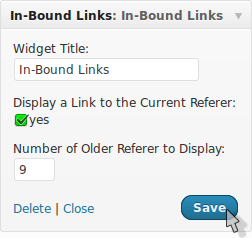
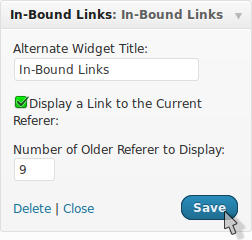
* Fixed the recheck link on the setting page, moved all the Stats to the Stats, and added a few different options for Menu Item placement.
git-svn-id: https://plugins.svn.wordpress.org/terribl/trunk@495108 b8457f37-d9ea-0310-8a92-e5e31aec5664

diff --git a/index.php b/index.php
@@ -7,9 +7,9 @@ Author URI: http://wordpress.ieonly.com/
 Contributors: scheeeli
 Donate link: https://www.paypal.com/cgi-bin/webscr?cmd=_s-xclick&hosted_button_id=8VWNB5QEJ55TJ
 Description: This plugin is not terrible it's TERRIBL. It simply Tracks Every Referer and Returns In-Bound Links. Place the Widget on your sidebar to display a link to the HTTP_REFERER and any other sites that you would like to trade links with.
-Version: 1.1.12.23
+Version: 1.1.12.24
 */
-$TERRIBL_Version='1.1.12.23';
+$TERRIBL_Version='1.1.12.24';
 $_SESSION['eli_debug_microtime']['include(TERRIBL)'] = microtime(true);
 $TERRIBL_plugin_dir='TERRIBL';
 /**
@@ -160,6 +160,7 @@ function TERRIBL_Settings() {
 	global $TERRIBL_SQL_SELECT, $TERRIBL_plugin_dir, $TERRIBL_images_path;
 $_SESSION['eli_debug_microtime']['TERRIBL_Settings_start'] = microtime(true);
 	$current_user = wp_get_current_user();
+	$TERRIBL_menu_groups = array('Main Menu Item placed below <b>Comments</b> and above <b>Appearance</b>','Main Menu Item placed below <b>Settings</b>','Sub-Menu inside the <b>Links</b> Menu Item');
 	TERRIBL_display_header('Settings');
 	$TERRIBL_settings_array = get_option($TERRIBL_plugin_dir.'_settings_array');
 	if (!isset($TERRIBL_settings_array['auto_root']))
@@ -173,12 +174,12 @@ $_SESSION['eli_debug_microtime']['TERRIBL_Settings_start'] = microtime(true);
 	if (isset($_POST['auto_root']) && $_POST['auto_root'] != $TERRIBL_settings_array['auto_root'])
 		$TERRIBL_settings_array['auto_root'] = $_POST['auto_root'];
 	update_option($TERRIBL_plugin_dir.'_settings_array', $TERRIBL_settings_array);
+	$menu_opts = '<b>Menu Item Placement Options:</b><br />';
+	foreach ($TERRIBL_menu_groups as $mg => $TERRIBL_menu_group)
+		$menu_opts .= '<div style="float: left; padding: 4px;" id="menu_group_div_'.$mg.'"><input type="radio" name="TERRIBL_menu_group" value="'.$mg.'"'.($TERRIBL_settings_array['menu_group']==$mg?' checked':'').' onchange="document.TERRIBL_Form.submit();" />'.$TERRIBL_menu_group.'</div>';
+	$menu_opts .= '<br style="clear: left;" /><hr /><br />';
 	$Impression_URL = $TERRIBL_images_path.'index.php?Impression_URI=/'.$TERRIBL_settings_array['auto_root'];
-	$MySQL = "SELECT SUM(`StatVisits`) AS `In-Bound<br />Clicks`, SUM(`StatImpressions`) AS `In-Bound<br />Impressions`, CONCAT('<a href=\"javascript:showhideRefDiv(\'', `StatRequestURI`, '\');\">', `StatRequestURI`, '</a><div class=\"shadowed-box rounded-corners popup-box\" id=\"RefDiv_', `StatRequestURI`, '\"><li>', GROUP_CONCAT(DISTINCT CONCAT(StatVisits, ' ', StatModified, ' ', StatDomain) ORDER BY StatVisits DESC SEPARATOR '<li>'), '</div>') AS `In-Bound<br />URI` FROM wp_terribl_stats WHERE StatMonth = '".$_POST['MonthOf']."' GROUP BY StatRequestURI ORDER BY `In-Bound<br />Clicks` DESC, `In-Bound<br />Impressions` DESC LIMIT 10";
-	echo '<b>Copy the HTML in this box and give it to others who wish to link to your site</b><br /><textarea width="100%" style="width: 100%;" rows="3" class="shadowed-box"><a target="_blank" href="http://'.$_SESSION[$TERRIBL_plugin_dir.'HTTP_HOST'].'/'.$TERRIBL_settings_array['auto_root'].'"><img border=0 src="'.$Impression_URL.'" /></a></textarea><br /><br /><form method="POST" name="TERRIBL_Form"><div style="float: left; width: 50%;"><div class="shadowed-box rounded-corners" style="background-color: #FFFFCC;"><h3 style="align: center;">Settings Form</h3>Default Path to Send In-Bound Visiters to (for Site Root leave blank):<br />http://'.$_SESSION[$TERRIBL_plugin_dir.'HTTP_HOST'].'/<input type="text" name="auto_root" value="'.$TERRIBL_settings_array['auto_root'].'" /> <input type="submit" value="Update" class="button-primary" /><br /><br />Automatically Validate In-Bound Referers and list in the sidebar Widget?<br /><input type="radio" name="auto_return" value="yes"'.($TERRIBL_settings_array['auto_return']=="yes"?" checked":"").' onchange="document.TERRIBL_Form.submit();" />yes &nbsp; <input type="radio" name="auto_return" value="no"'.($TERRIBL_settings_array['auto_return']=="yes"?"":" checked").' onchange="document.TERRIBL_Form.submit();" />no<input type="hidden" name="MonthOf" value="'.$_POST['MonthOf'].'" /><br /><br />Kick off your In-Bound Widget by manually adding a site here:<br />http://<input type="text" name="manual_add" id="manual_add" value="wordpress.ieonly.com" /><input type="hidden" id="auto_what" name="auto_what" value="" /><input type="submit" value="Add Site Link to Widget" class="button-primary" onclick="document.getElementById(\'auto_what\').value=\'add\';" /></div><br />
-<h2 style="float: right;">In-Bound Link Stats</h2>
-</div><div style="float: left; width: 50%; margin: 0;">'.TERRIBL_mysql_report($MySQL, 'Top 10 In-Bound URIs').'</div>
-	<div style="float: left;">
+	echo '<b>Copy the HTML in this box and give it to others who wish to link to your site</b><br /><textarea width="100%" style="width: 100%;" rows="3" class="shadowed-box"><a target="_blank" href="http://'.$_SESSION[$TERRIBL_plugin_dir.'HTTP_HOST'].'/'.$TERRIBL_settings_array['auto_root'].'"><img border=0 src="'.$Impression_URL.'" /></a></textarea><br /><br /><form method="POST" name="TERRIBL_Form"><div class="shadowed-box rounded-corners" style="background-color: #FFFFCC;"><h2 style="align: center;">Settings Form</h2>'.$menu_opts.'<b>Default Path to Send In-Bound Visiters to</b> (for Site Root leave blank):<br />http://'.$_SESSION[$TERRIBL_plugin_dir.'HTTP_HOST'].'/<input type="text" name="auto_root" value="'.$TERRIBL_settings_array['auto_root'].'" /> <input type="submit" value="Update" class="button-primary" /><br /><br /><b>Automatically Validate In-Bound Referers and list in the sidebar Widget?</b><br /><input type="radio" name="auto_return" value="yes"'.($TERRIBL_settings_array['auto_return']=="yes"?" checked":"").' onchange="document.TERRIBL_Form.submit();" />yes &nbsp; <input type="radio" name="auto_return" value="no"'.($TERRIBL_settings_array['auto_return']=="yes"?"":" checked").' onchange="document.TERRIBL_Form.submit();" />no<input type="hidden" name="MonthOf" value="'.$_POST['MonthOf'].'" /><br /><br /><b>Kick off your In-Bound Widget by manually adding a site here:</b><br />http://<input type="text" name="manual_add" id="manual_add" value="wordpress.ieonly.com" /><input type="hidden" id="auto_what" name="auto_what" value="" /><input type="submit" value="Add Site Link to Widget" class="button-primary" onclick="document.getElementById(\'auto_what\').value=\'add\';" /></div>
 	<script>
 	function showhideRefDiv(domain) {
 		refdiv = document.getElementById(\'RefDiv_\'+domain);
@@ -190,14 +191,13 @@ $_SESSION['eli_debug_microtime']['TERRIBL_Settings_start'] = microtime(true);
 			}
 		}
 	}
-	function recheckDomain(domain, referer) {
+	function recheckDomain(domain) {
 		document.getElementById(\'img_\'+domain).src=\''.$TERRIBL_images_path.'wait.gif\';
 		var newimg = new Image();
 		newimg.onload = function() {document.getElementById(\'img_\'+domain).src=newimg.src;};
-		newimg.src=\''.$TERRIBL_images_path.'index.php?Impression_URI&Return_URL=\'+referer;
+		newimg.src=\''.$TERRIBL_images_path.'index.php?Impression_URI&Return_URL=\'+domain;
 	}
-	</script>
-	<table border=0 cellspacing=0><tr><td>';
+	</script>';
 	if (isset($_POST['manual_add']) && strlen(trim($_POST['manual_add'])) > 0 && isset($_POST['auto_what']) && strlen($_POST['auto_what']) > 0) {
 		$DomainName = mysql_real_escape_string(trim($_POST['manual_add']));
 		if ($_POST['auto_what']=='add') {
@@ -210,19 +210,14 @@ $_SESSION['eli_debug_microtime']['TERRIBL_Settings_start'] = microtime(true);
 		elseif ($_POST['auto_what']=='hide')
 			@mysql_query("UPDATE `wp_terribl_stats` SET `StatReturn`=0 WHERE StatDomain='$DomainName'");
 	}
-	$MySQL = "SELECT MONTHNAME(StatMonth) AS MonthOf, StatMonth FROM `wp_terribl_stats` GROUP BY StatMonth ORDER BY StatMonth DESC LIMIT 12";
-	$result = mysql_query($MySQL);
-	while ($rs = mysql_fetch_assoc($result))
-		echo '<input type="submit" value="'.$rs['MonthOf'].'" onclick="document.TERRIBL_Form.MonthOf.value=\''.$rs['StatMonth'].'\';" style="'.($_POST['MonthOf']==$rs['StatMonth']?'background-color: #33FF33; ':'').'float: right;" />';
-	echo '</td></tr></table></div><div style="float: left;">';
-	$MySQL = str_replace("`StatDomain` AS `Referring<br />Site`", "CONCAT('<img border=0 src=\"".$TERRIBL_images_path."', IF(MAX(`StatReturn`)>0, 'checked.gif\" alt=\"Link Verified\"', 'blocked.gif\" alt=\"Link Not Found'), '\" id=\"img_',StatDomain,'\" /><a href=\"javascript:recheckDomain(\'',StatDomain,'\', \'',MAX(StatReferer),'\');\">Recheck</a>') AS `Link<br />Verified`, IF(StatDomain IN (SELECT `BlockDomain` FROM `wp_terribl_blocked`), 'Site Blocked!', CONCAT('<input type=\"submit\" value=\"Block This Site!\" onclick=\"document.getElementById(\'auto_what\').value=\'block\';document.getElementById(\'manual_add\').value=\'',StatDomain,'\';\" />')) AS `Widget<br />Action`, CONCAT('<a href=\"javascript:showhideRefDiv(\'', `StatDomain`, '\');\">', `StatDomain`, '</a><div class=\"shadowed-box rounded-corners popup-box\" id=\"RefDiv_', `StatDomain`, '\"><table><tr><td><li>', GROUP_CONCAT(DISTINCT CONCAT(IFNULL(StatReturn, '0'), '</td><td>', StatModified, '</td><td>', StatReferer, '</td><td>', StatRequestURI) ORDER BY StatModified DESC SEPARATOR '</td></tr><tr><td><li>'), '</td></tr></table></div>') AS `Referring<br />Site`", str_replace("FROM wp_terribl_stats GROUP", "FROM wp_terribl_stats WHERE StatMonth = '".$_POST['MonthOf']."' GROUP",$TERRIBL_SQL_SELECT));
-	echo TERRIBL_mysql_report($MySQL).'</div></form></div></div>';
+	$MySQL = str_replace("`StatDomain` AS `Referring<br />Site`", "CONCAT('<img border=0 src=\"".$TERRIBL_images_path."', IF(MAX(`StatReturn`)>0, 'checked.gif\" alt=\"Link Verified\"', 'blocked.gif\" alt=\"Link Not Found'), '\" id=\"img_',StatDomain,'\" /><a href=\"javascript:recheckDomain(\'',StatDomain,'\');\">Recheck</a>') AS `Link<br />Verified`, IF(StatDomain IN (SELECT `BlockDomain` FROM `wp_terribl_blocked`), 'Site Blocked!', CONCAT('<input type=\"submit\" value=\"Block Site!\" onclick=\"document.getElementById(\'auto_what\').value=\'block\';document.getElementById(\'manual_add\').value=\'',StatDomain,'\';\" />')) AS `Widget<br />Action`, CONCAT('<a href=\"javascript:showhideRefDiv(\'', `StatDomain`, '\');\">', `StatDomain`, '</a><div class=\"shadowed-box rounded-corners popup-box\" id=\"RefDiv_', `StatDomain`, '\"><table><tr><td>', GROUP_CONCAT(DISTINCT CONCAT(IFNULL(StatReturn, '0'), '</td><td>', StatModified, '</td><td>', StatReferer, '</td><td>', StatRequestURI) ORDER BY StatModified DESC SEPARATOR '</td></tr><tr><td>'), '</td></tr></table></div>') AS `Referring<br />Site`",$TERRIBL_SQL_SELECT);// str_replace("FROM wp_terribl_stats GROUP", "FROM wp_terribl_stats WHERE StatMonth = '".$_POST['MonthOf']."' GROUP",
+	echo TERRIBL_mysql_report($MySQL, 'In-Bound Links').'</form></div></div>';
 $_SESSION['eli_debug_microtime']['TERRIBL_Settings_end'] = microtime(true);
 //TERRIBL_debug();//only used for debugging.//rem this line out
 }
-function TERRIBL_more_stats() {
-$_SESSION['eli_debug_microtime']['TERRIBL_more_stats_start'] = microtime(true);
-	TERRIBL_display_header('More Stats');
+function TERRIBL_stats() {
+$_SESSION['eli_debug_microtime']['TERRIBL_stats_start'] = microtime(true);
+	TERRIBL_display_header('Stats');
 	if (!isset($_POST['MonthOf']))
 		$_POST['MonthOf'] = date("Y-m")."-01";
 	if (isset($_POST['RemoteAddr']) && strlen(trim($_POST['RemoteAddr'])))
@@ -239,6 +234,8 @@ $_SESSION['eli_debug_microtime']['TERRIBL_more_stats_start'] = microtime(true);
 	while ($rs = mysql_fetch_assoc($result))
 		echo '<input type="submit" value="'.$rs['MonthOf'].'" onclick="document.TERRIBL_Form.MonthOf.value=\''.$rs['StatMonth'].'\';" style="'.($_POST['MonthOf']==$rs['StatMonth']?'background-color: #33FF33; ':'').'float: right;" />';
 	echo '</td></tr></table></div></form>';
+	$SQL = "SELECT SUM(`StatVisits`) AS `In-Bound<br />Clicks`, SUM(`StatImpressions`) AS `In-Bound<br />Impressions`, CONCAT('<a href=\"javascript:showhideRefDiv(\'', `StatRequestURI`, '\');\">', `StatRequestURI`, '</a><div class=\"shadowed-box rounded-corners popup-box\" id=\"RefDiv_', `StatRequestURI`, '\"><li>', GROUP_CONCAT(DISTINCT CONCAT(StatVisits, ' ', StatModified, ' ', StatDomain) ORDER BY StatVisits DESC SEPARATOR '<li>'), '</div>') AS `In-Bound<br />URI` FROM wp_terribl_stats WHERE StatMonth = '".$_POST['MonthOf']."' GROUP BY StatRequestURI ORDER BY `In-Bound<br />Clicks` DESC, `In-Bound<br />Impressions` DESC LIMIT 10";
+	echo '<div style="float: left;">'.TERRIBL_mysql_report($SQL, 'Top 10 In-Bound Link Destinations').'</div>';
 	$VisiterColor = '#FF9999';
 	$VisitColor = '#9999FF';
 	$AllVisiters = "(SELECT COUNT(StatVisits) FROM wp_terribl_stats $WHERE ORDER BY COUNT(StatVisits) DESC LIMIT 1)";
@@ -250,7 +247,7 @@ $_SESSION['eli_debug_microtime']['TERRIBL_more_stats_start'] = microtime(true);
 		$ANDNOT .= " AND StatUserAgent NOT LIKE '%$OS%'";
 	}
 	$SQL .= "Other";
-	echo '<div style="float: left;"><b>Operating System</b><br />'.TERRIBL_mysql_report($SQL).'</div>';
+	echo '<div style="float: left;">'.TERRIBL_mysql_report($SQL,'Operating System').'</div>';
 	$SQL = "SELECT CONCAT('<div style=\"position: relative; width: 100%; height: 100px; background-color: #000000;\"><font color=\"$VisiterColor\"><b>', $AllVisiters, '<br />Visiters</b></font><br /><br /><font color=\"$VisitColor\"><b>', $AllVisits, '<br />Visits<b></font></div>') AS Browser";
 	$ANDNOT = "";
 	foreach (Array('MSIE', 'Firefox', 'Chrome', 'Safari', 'Opera', '') as $OS) {
@@ -258,14 +255,18 @@ $_SESSION['eli_debug_microtime']['TERRIBL_more_stats_start'] = microtime(true);
 		$ANDNOT .= " AND StatUserAgent NOT LIKE '%$OS%'";
 	}
 	$SQL .= "Other";
- 	echo '<div style="float: left;"><b>Browsers</b><br />'.TERRIBL_mysql_report($SQL).'</div>';
- 	echo '<div style="float: left;"><b>Top 10 Other Browsers</b><br />'.TERRIBL_mysql_report("SELECT COUNT(StatVisits) AS Visiters, SUM(StatVisits) AS Visits, StatUserAgent AS Browser, CONCAT('&nbsp;', GROUP_CONCAT(DISTINCT StatRemoteAddr), '&nbsp;') AS IPs FROM wp_terribl_stats ".$WHERE.str_replace(" AND StatUserAgent NOT LIKE '%%'", "", $ANDNOT)." GROUP BY StatUserAgent ORDER BY COUNT(StatVisits) DESC LIMIT 10").'</div></div></div>';
-$_SESSION['eli_debug_microtime']['TERRIBL_more_stats_end'] = microtime(true);
+ 	echo '<div style="float: left;">'.TERRIBL_mysql_report($SQL,'Browsers').'</div>';
+ 	echo '<div style="float: left;">'.TERRIBL_mysql_report("SELECT COUNT(StatVisits) AS Visiters, SUM(StatVisits) AS Visits, StatUserAgent AS Browser, CONCAT('&nbsp;', GROUP_CONCAT(DISTINCT StatRemoteAddr SEPARATOR ', '), '&nbsp;') AS IPs FROM wp_terribl_stats ".$WHERE.str_replace(" AND StatUserAgent NOT LIKE '%%'", "", $ANDNOT)." GROUP BY StatUserAgent ORDER BY COUNT(StatVisits) DESC LIMIT 10", 'Top 10 Other Browsers').'</div></div></div>';
+$_SESSION['eli_debug_microtime']['TERRIBL_stats_end'] = microtime(true);
 }
 function TERRIBL_menu() {
 	global $TERRIBL_plugin_dir, $TERRIBL_Version, $wp_version, $TERRIBL_plugin_home, $TERRIBL_Logo_IMG, $TERRIBL_updated_images_path, $TERRIBL_images_path;
 $_SESSION['eli_debug_microtime']['TERRIBL_menu_start'] = microtime(true);
 	$TERRIBL_settings_array = get_option($TERRIBL_plugin_dir.'_settings_array');
+	if (isset($_POST['TERRIBL_menu_group']) && is_numeric($_POST['TERRIBL_menu_group']) && $_POST['TERRIBL_menu_group'] != $TERRIBL_settings_array['menu_group']) {
+		$TERRIBL_settings_array['menu_group'] = $_POST['TERRIBL_menu_group'];
+		update_option($TERRIBL_plugin_dir.'_settings_array', $TERRIBL_settings_array);
+	}
 	$Logo_URL = $TERRIBL_images_path.$TERRIBL_Logo_IMG;
 	$img_path = basename(__FILE__);
 	$Logo_Path = 'images/'.$TERRIBL_Logo_IMG;
@@ -274,12 +275,14 @@ $_SESSION['eli_debug_microtime']['TERRIBL_menu_start'] = microtime(true);
 	urlencode($Full_plugin_logo_URL);
 	$Logo_URL = $Full_plugin_logo_URL;
 	$base_page = $TERRIBL_plugin_dir.'-settings';
-	if (function_exists('add_object_page'))
-		add_object_page(__('ELI\'s TERRIBL Settings'), __('TERRIBL'), 'administrator', $base_page, $TERRIBL_plugin_dir.'_settings', $Logo_URL);
-	else
+	if ($TERRIBL_settings_array['menu_group'] == 2)
+		$base_page = 'link-manager.php';
+	elseif (!function_exists('add_object_page') || $TERRIBL_settings_array['menu_group'] == 1)
 		add_menu_page(__('ELI\'s TERRIBL Settings'), __('TERRIBL'), 'administrator', $base_page, $TERRIBL_plugin_dir.'_settings', $Logo_URL);
-	add_submenu_page($base_page, __('ELI\'s TERRIBL Settings Page'), __('Settings &amp; Stats'), 'administrator', $base_page, $TERRIBL_plugin_dir.'_settings');
-	add_submenu_page($base_page, __('ELI\'s TERRIBL - More Stats Page'), __('More Stats'), 'administrator', $TERRIBL_plugin_dir.'-more-stats', $TERRIBL_plugin_dir.'_more_stats');
+	else
+		add_object_page(__('ELI\'s TERRIBL Settings'), __('TERRIBL'), 'administrator', $base_page, $TERRIBL_plugin_dir.'_settings', $Logo_URL);
+	add_submenu_page($base_page, __('ELI\'s TERRIBL Settings Page'), __('TERRIBL Settings'), 'administrator', $TERRIBL_plugin_dir.'-settings', $TERRIBL_plugin_dir.'_settings');
+	add_submenu_page($base_page, __('ELI\'s TERRIBL Stats Page'), __('TERRIBL Stats'), 'administrator', $TERRIBL_plugin_dir.'-stats', $TERRIBL_plugin_dir.'_stats');
 $_SESSION['eli_debug_microtime']['TERRIBL_menu_end'] = microtime(true);
 }
 function TERRIBL_debug($my_error = '', $echo_error = false) {
@@ -306,7 +309,7 @@ function TERRIBL_debug($my_error = '', $echo_error = false) {
 	return $my_error;
 }
 function TERRIBL_init() {
-	global $TERRIBL_plugin_dir, $Visits_Impressions, $TERRIBL_REFERER_Parts;
+	global $TERRIBL_plugin_dir, $Visits_Impressions, $TERRIBL_REFERER_Parts, $img_src, $img_t;
 	$YourTZ=get_option('timezone_string').'';
 	if (function_exists('date_default_timezone_set') && strlen($YourTZ) > 0)
 		date_default_timezone_set($YourTZ);
@@ -327,24 +330,86 @@ $_SESSION['eli_debug_microtime']['TERRIBL_init_start'] = microtime(true);
 		$now = date("Y-m-d H:i:s");
 		$StatUserAgent = mysql_real_escape_string(isset($_SERVER['HTTP_USER_AGENT'])?$_SERVER['HTTP_USER_AGENT']:'Unknown USER_AGENT');
 		$StatRemoteAddr = (isset($_SERVER['REMOTE_ADDR'])?$_SERVER['REMOTE_ADDR']:'.Unknown.ADDR.');
-		
 		if ($TERRIBL_REFERER_Parts[2] != $_SESSION[$TERRIBL_plugin_dir.'HTTP_HOST']) {
-			if (($Visits_Impressions == 'StatReturn'))
-				$_SESSION[$TERRIBL_plugin_dir.'HTTP_REFERER'] = (isset($_GET['Return_URL'])?$_GET['Return_URL']:$_SESSION[$TERRIBL_plugin_dir.'HTTP_REFERER']);
-			else {
-				if ($Visits_Impressions != 'StatImpressions')
+			if ($Visits_Impressions == 'StatReturn' && !(substr($_GET['Return_URL'],0,7)=='http://'||substr($_GET['Return_URL'],0,8)=='https://')) {
+				$MySQL = "SELECT `StatReferer` FROM `wp_terribl_stats` WHERE `StatDomain`='".$TERRIBL_REFERER_Parts[2]."'";
+				@mysql_query($MySQL);
+				$result = mysql_query($MySQL);
+				while ($_rs = mysql_fetch_assoc($result)) {
+					$ReadFile = '';
+					if (function_exists('file_get_contents'))
+						$ReadFile = @file_get_contents($_rs['StatReferer']).'';
+					if (strlen($ReadFile) == 0 && function_exists('curl_init')) {
+						$curl_hndl = curl_init();
+						curl_setopt($curl_hndl, CURLOPT_URL, $_rs['StatReferer']);
+						curl_setopt($curl_hndl, CURLOPT_TIMEOUT, 30);
+						curl_setopt($curl_hndl, CURLOPT_REFERER, $img_t);
+						curl_setopt($curl_hndl, CURLOPT_HEADER, 0);
+						curl_setopt($curl_hndl, CURLOPT_RETURNTRANSFER, TRUE);
+						$ReadFile = curl_exec($curl_hndl);
+						curl_close($curl_hndl);
+					}
+					if (strlen($ReadFile) > 0) {
+						$ReturnOne = '1';
+						if (strpos($ReadFile, '://'.$img_t) > 0)
+							$img_src = 'checked.gif';
+						else
+							$ReturnOne = '0';
+						$_SESSION[$TERRIBL_plugin_dir.'HTTP_REFERER'] = $_rs['StatReferer'];//(isset($_GET['Return_URL'])?$_GET['Return_URL']:$_SESSION[$TERRIBL_plugin_dir.'HTTP_REFERER']);
+						$SAFE_REFERER = "'".mysql_real_escape_string($_SESSION[$TERRIBL_plugin_dir.'HTTP_REFERER'])."'";
+						$_SESSION[$TERRIBL_plugin_dir.'REFERER_Parts'] = $TERRIBL_REFERER_Parts;
+						$MySQL = "UPDATE `wp_terribl_stats` SET `$Visits_Impressions`=$ReturnOne WHERE `StatReferer`=$SAFE_REFERER";
+TERRIBL_debug("TERRIBL UPDATE test\n$SQL_Error\nSQL:$MySQL");//only used for debugging.
+						@mysql_query($MySQL);
+						if (mysql_errno()) {
+							$SQL_Error = mysql_error();
+							if (substr($SQL_Error, 0, 6) == "Table " && substr($SQL_Error, -14) == " doesn't exist")
+								TERRIBL_install();
+							else TERRIBL_debug("TERRIBL MySQL UPDATE\n$SQL_Error\nSQL:$MySQL");//only used for debugging.//rem this line out
+						} elseif ($Visits_Impressions == 'StatReturn') TERRIBL_debug("TERRIBL MySQL UPDATE StatReturn\nSQL:$MySQL");
+					}
+				}
+//TERRIBL_debug("TERRIBL StatReturn\n$ReturnOne $img_src\n$img_t");//only used for debugging.
+			} else {
+				if ($Visits_Impressions != 'StatImpressions' && $Visits_Impressions != 'StatReturn')
 					$Visits_Impressions = 'StatVisits';
+				$ReturnOne = "`$Visits_Impressions`+1";
+				if ($Visits_Impressions == 'StatReturn') {
+					$TERRIBL_HTTP_REFERER = (isset($_GET['Return_URL'])?$_GET['Return_URL']:$_SESSION[$TERRIBL_plugin_dir.'HTTP_REFERER']);
+					$ReadFile = '';
+					if (function_exists('file_get_contents'))
+						$ReadFile = @file_get_contents($TERRIBL_HTTP_REFERER).'';
+					if (strlen($ReadFile) == 0 && function_exists('curl_init')) {
+						$curl_hndl = curl_init();
+						curl_setopt($curl_hndl, CURLOPT_URL, $TERRIBL_HTTP_REFERER);
+						curl_setopt($curl_hndl, CURLOPT_TIMEOUT, 30);
+						curl_setopt($curl_hndl, CURLOPT_REFERER, $img_t);
+						curl_setopt($curl_hndl, CURLOPT_HEADER, 0);
+						curl_setopt($curl_hndl, CURLOPT_RETURNTRANSFER, TRUE);
+						$ReadFile = curl_exec($curl_hndl);
+						curl_close($curl_hndl);
+					}
+					if (strlen($ReadFile) > 0) {
+						$ReturnOne = '1';
+						if (strpos($ReadFile, '://'.$img_t) > 0)
+							$img_src = 'checked.gif';
+						else
+							$ReturnOne = '0';
+					}
+//TERRIBL_debug("TERRIBL StatReturn\n$ReturnOne $img_src\n$img_t");//only used for debugging.
+				}
 				$_SESSION[$TERRIBL_plugin_dir.'HTTP_REFERER'] = $TERRIBL_HTTP_REFERER;
-			}
-			$SAFE_REFERER = "'".mysql_real_escape_string($_SESSION[$TERRIBL_plugin_dir.'HTTP_REFERER'])."'";//)(strpos($_SESSION[$TERRIBL_plugin_dir.'HTTP_REFERER'], '&q=&esrc=s')>0?"REPLACE(`StatReferer`, '/url?', '/search?')":;
-			$_SESSION[$TERRIBL_plugin_dir.'REFERER_Parts'] = $TERRIBL_REFERER_Parts;
-			$MySQL = "INSERT INTO `wp_terribl_stats` (`StatMonth`, `StatCreated`, `StatModified`, `StatFirstUserAgent`, `StatUserAgent`, `StatFirstRemoteAddr`, `StatRemoteAddr`, `StatReferer`, `$Visits_Impressions`, `StatDomain`, `StatRequestURI`) VALUES ('".date("Y-m")."-01', '".$now."', '".$now."', '".$StatUserAgent."', '".$StatUserAgent."', '".$StatRemoteAddr."', '".$StatRemoteAddr."', '".mysql_real_escape_string($_SESSION[$TERRIBL_plugin_dir.'HTTP_REFERER'])."', 1, '".mysql_real_escape_string($_SESSION[$TERRIBL_plugin_dir.'REFERER_Parts'][2])."', '".mysql_real_escape_string($StatRequestURI)."') ON DUPLICATE KEY UPDATE `StatModified`='".$now."', `StatUserAgent`='".$StatUserAgent."', `StatRemoteAddr`='".$StatRemoteAddr."', `StatReferer`=IF(`StatReturn`>0,`StatReferer`,$SAFE_REFERER), `$Visits_Impressions`=`$Visits_Impressions`+1";
-			@mysql_query($MySQL);
-			if (mysql_errno()) {
-				$SQL_Error = mysql_error();
-				if (substr($SQL_Error, 0, 6) == "Table " && substr($SQL_Error, -14) == " doesn't exist")
-					TERRIBL_install();
-				else TERRIBL_debug("TERRIBL MySQL INSERT\n$SQL_Error\nSQL:$MySQL");//only used for debugging.//rem this line out
+				$SAFE_REFERER = "'".mysql_real_escape_string($_SESSION[$TERRIBL_plugin_dir.'HTTP_REFERER'])."'";//)(strpos($_SESSION[$TERRIBL_plugin_dir.'HTTP_REFERER'], '&q=&esrc=s')>0?"REPLACE(`StatReferer`, '/url?', '/search?')":;
+				$_SESSION[$TERRIBL_plugin_dir.'REFERER_Parts'] = $TERRIBL_REFERER_Parts;
+				$MySQL = "INSERT INTO `wp_terribl_stats` (`StatMonth`, `StatCreated`, `StatModified`, `StatFirstUserAgent`, `StatUserAgent`, `StatFirstRemoteAddr`, `StatRemoteAddr`, `StatReferer`, `$Visits_Impressions`, `StatDomain`, `StatRequestURI`) VALUES ('".date("Y-m")."-01', '".$now."', '".$now."', '".$StatUserAgent."', '".$StatUserAgent."', '".$StatRemoteAddr."', '".$StatRemoteAddr."', $SAFE_REFERER, 1, '".mysql_real_escape_string($_SESSION[$TERRIBL_plugin_dir.'REFERER_Parts'][2])."', '".mysql_real_escape_string($StatRequestURI)."') ON DUPLICATE KEY UPDATE `StatModified`='".$now."', `StatUserAgent`='".$StatUserAgent."', `StatRemoteAddr`='".$StatRemoteAddr."', `StatReferer`=IF(`StatReturn`>0,`StatReferer`,$SAFE_REFERER), `$Visits_Impressions`=$ReturnOne";
+//TERRIBL_debug("TERRIBL INSERT test\n$SQL_Error\nSQL:$MySQL");//only used for debugging.
+				@mysql_query($MySQL);
+				if (mysql_errno()) {
+					$SQL_Error = mysql_error();
+					if (substr($SQL_Error, 0, 6) == "Table " && substr($SQL_Error, -14) == " doesn't exist")
+						TERRIBL_install();
+					else TERRIBL_debug("TERRIBL MySQL INSERT\n$SQL_Error\nSQL:$MySQL");//only used for debugging.
+				}
 			}
 		} elseif (isset($_GET['Impression_URI']) && ($StatRequestURI == $_GET['Impression_URI']) && ($Visits_Impressions == 'StatImpressions') && isset($_SESSION[$TERRIBL_plugin_dir.'HTTP_REFERER']) && !isset($_SESSION['chk_'.$_SESSION[$TERRIBL_plugin_dir.'HTTP_REFERER']])) {
 			$_SESSION['chk_'.$_SESSION[$TERRIBL_plugin_dir.'HTTP_REFERER']] = 0;
@@ -416,18 +481,33 @@ $_SESSION['eli_debug_microtime']['TERRIBL_Widget_Class_form_start'] = microtime(
 		$riblfer = isset($instance['riblfer']) ? esc_attr($instance['riblfer']) : 'yes';
 		echo '<p><label for="'.$this->get_field_id('title').'">'.__('Alternate Widget Title').':</label>
 		<input type="text" name="'.$this->get_field_name('title').'" id="'.$this->get_field_id('title').'" value="'.$title.'" /></p>
-		<p><label for="'.$this->get_field_id('riblfer').'">'.__('Display a Link to the Current Referer').':</label>
-		<input type="checkbox" name="'.$this->get_field_name('riblfer').'" id="'.$this->get_field_id('riblfer').'" value="yes"'.($riblfer=="yes"?" checked":"").' />yes</p>
+		<p><input type="checkbox" name="'.$this->get_field_name('riblfer').'" id="'.$this->get_field_id('riblfer').'" value="yes"'.($riblfer=="yes"?" checked":"").' /><label for="'.$this->get_field_id('riblfer').'">'.__('Display a Link to the Current Referer').':</label></p>
 		<p><label for="'.$this->get_field_id('number').'">Number of Older Referer to Display:</label>
 		<input type="text" size="2" name="'.$this->get_field_name('number').'" id="'.$this->get_field_id('number').'" value="'.$number.'" /></p>';
 $_SESSION['eli_debug_microtime']['TERRIBL_Widget_Class_form_end'] = microtime(true);
 	}
 }
+function TERRIBL_set_plugin_action_links($links_array, $plugin_file) {
+	if ($plugin_file == substr(__file__, (-1 * strlen($plugin_file)))) {
+		$_SESSION['eli_debug_microtime']['TERRIBL_set_plugin_action_links'] = microtime(true);
+		$links_array = array_merge(array('<a href="admin.php?page=TERRIBL-settings">'.__( 'Settings' ).'</a>'), $links_array);
+	}
+	return $links_array;
+}
+function TERRIBL_set_plugin_row_meta($links_array, $plugin_file) {
+	if ($plugin_file == substr(__file__, (-1 * strlen($plugin_file)))) {
+		$_SESSION['eli_debug_microtime']['TERRIBL_set_plugin_row_meta'] = microtime(true);
+		$links_array = array_merge($links_array, array('<a target="_blank" href="http://wordpress.org/extend/plugins/terribl/faq/">'.__( 'FAQ' ).'</a>','<a target="_blank" href="http://wordpress.org/tags/terribl">'.__( 'Support' ).'</a>','<a target="_blank" href="https://www.paypal.com/cgi-bin/webscr?cmd=_s-xclick&hosted_button_id=8VWNB5QEJ55TJ">'.__( 'Donate' ).'</a>'));
+	}
+	return $links_array;
+}
+add_filter('plugin_row_meta', $TERRIBL_plugin_dir.'_set_plugin_row_meta', 1, 2);
+add_filter('plugin_action_links', $TERRIBL_plugin_dir.'_set_plugin_action_links', 1, 2);
 $TERRIBL_plugin_home='http://wordpress.ieonly.com/';
 $TERRIBL_images_path = plugins_url('/images/', __FILE__);
 $TERRIBL_updated_images_path = 'wp-content/plugins/update/images/';
 $TERRIBL_Logo_IMG='TERRIBL-16x16.gif';//<a href=\"javascript:document.TERRIBL_Form.submit();\" onclick=\"document.getElementById(\'auto_what\').value=\'show\';document.getElementById(\'manual_add\').value=\'',StatDomain,'\';\">Show</a>
-$TERRIBL_SQL_SELECT = "SELECT `StatDomain` AS `Referring<br />Site`, (SELECT `StatRequestURI` FROM wp_terribl_stats AS pastReferer WHERE StatDomain = wp_terribl_stats.StatDomain ORDER BY StatModified DESC LIMIT 1) AS `In-Bound<br />URI`, MAX(`StatModified`) AS `Last<br />Referral`, SUM(`StatVisits`) AS `In-Bound<br />Clicks`, SUM(`StatImpressions`) AS `In-Bound<br />Impressions` FROM wp_terribl_stats GROUP BY StatDomain ORDER BY MAX(StatReturn) DESC, `In-Bound<br />Clicks` DESC, SUM(`StatImpressions`) DESC, `Last<br />Referral` DESC";
+$TERRIBL_SQL_SELECT = "SELECT `StatDomain` AS `Referring<br />Site`, MAX(`StatModified`) AS `Last<br />Referral`, SUM(`StatVisits`) AS `In-Bound<br />Clicks`, SUM(`StatImpressions`) AS `In-Bound<br />Impressions` FROM wp_terribl_stats GROUP BY StatDomain ORDER BY MAX(StatReturn) DESC, `In-Bound<br />Clicks` DESC, SUM(`StatImpressions`) DESC, `Last<br />Referral` DESC";//, (SELECT `StatRequestURI` FROM wp_terribl_stats AS pastReferer WHERE StatDomain = wp_terribl_stats.StatDomain ORDER BY StatModified DESC LIMIT 1) AS `In-Bound<br />URI`
 register_activation_hook(__FILE__,$TERRIBL_plugin_dir.'_install');
 add_action('widgets_init', create_function('', 'return register_widget("TERRIBL_Widget_Class");'));
 add_action('init', $TERRIBL_plugin_dir.'_init');

diff --git a/images/index.php b/images/index.php
@@ -12,27 +12,9 @@ if (isset($_GET['Impression_URI'])) {
 	$TERRIBL_REFERER_Parts = explode('/', $TERRIBL_HTTP_REFERER.'//'.$img_t);
 	if (($TERRIBL_REFERER_Parts[2] == $img_t) && isset($_GET['Return_URL'])) {
 		$TERRIBL_REFERER_Part2 = $TERRIBL_REFERER_Parts[2];
+		$TERRIBL_REFERER_Parts = explode('/', ((substr($_GET['Return_URL'],0,7)=='http://'||substr($_GET['Return_URL'],0,8)=='https://')?'':'http://').$_GET['Return_URL']);
 		$img_src = 'blocked.gif';
-		$ReadFile = '';
-		if (function_exists('file_get_contents'))
-			$ReadFile = @file_get_contents($_GET['Return_URL']).'';
-		if (strlen($ReadFile) == 0 && function_exists('curl_init')) {
-			$curl_hndl = curl_init();
-			curl_setopt($curl_hndl, CURLOPT_URL, $_GET['Return_URL']);
-			curl_setopt($curl_hndl, CURLOPT_TIMEOUT, 30);
-		    curl_setopt($curl_hndl, CURLOPT_REFERER, $img_t);
-			curl_setopt($curl_hndl, CURLOPT_HEADER, 0);
-			curl_setopt($curl_hndl, CURLOPT_RETURNTRANSFER, TRUE);
-			$ReadFile = curl_exec($curl_hndl);
-			curl_close($curl_hndl);
-		}
-		if (strlen($ReadFile) > 0) {
-			if (strpos($ReadFile, '://'.$img_t) > 0) {
-				$Visits_Impressions = 'StatReturn';
-				$TERRIBL_REFERER_Parts = explode('/', $_GET['Return_URL'].'//'.$TERRIBL_HTTP_REFERER);
-				$img_src = 'checked.gif';
-			}
-		}
+		$Visits_Impressions = 'StatReturn';
 	} else
 		$Visits_Impressions = 'StatImpressions';
 	$conf_path = 'wp-load.php';
